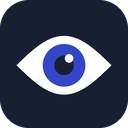
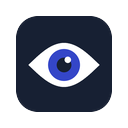
Prepare Chrome Web Store submission
- store/ holds 1280x800 screenshots, the 440x280 promo tile and
  LISTING.md with the description, single purpose, permission
  justifications, data-usage answers and reviewer instructions
- Store icon now uses 96px artwork with 16px transparent padding
- npm run package builds seeyourdata-store.zip with manifest at the root

Claude-Session: https://claude.ai/code/session_01XK9NZGWdt5g7wrh34Zqs6W

diff --git a/store/LISTING.md b/store/LISTING.md
@@ -1,0 +1,92 @@
+# Chrome Web Store listing
+
+Everything to paste into the Chrome Web Store Developer Dashboard. Images are in this folder.
+
+## Package
+
+Upload `seeyourdata-store.zip` (built with `npm run package`). It contains only the extension files, with `manifest.json` at the top level.
+
+## Store listing tab
+
+**Name:** taken from the extension (SeeYourData)
+
+**Summary** (shown in search results, max 132 characters; taken from the extension in each language):
+
+> See which personal data the website you're on can collect, and which companies receive it.
+
+**Description:**
+
+```
+SeeYourData shows you, in plain language, what the website you're on can learn about you and who it shares it with.
+
+Click the eye icon on any website to see:
+
+• A grade from A to F for how exposed you are on that page
+• Your data: what the page can collect, such as a fingerprint of your device, your location, your clicks and typing, IDs that follow you across websites, and the details its forms ask for
+• Who gets it: every company the page sends data to (Google, Meta, Hotjar, ad exchanges and more), what each one does, and which servers your browser contacted, including trackers hidden inside the site's own domain
+• Policy: SeeYourData reads the site's privacy policy for you and shows what it says it collects, why, on which legal basis, and which of your rights it explains. It then lists what the page actually does that the policy leaves out.
+• Email the site: one click drafts a polite GDPR email to the site's privacy contact with the evidence. You review it and send it from your own email. SeeYourData never sends anything.
+
+Available in English, Deutsch and Türkçe.
+
+Private by design
+• Everything happens in your browser. SeeYourData has no servers, no analytics and no accounts.
+• Findings are kept in memory only and deleted when you close the tab.
+• It never reads what you type into forms, and never blocks or changes pages.
+• The privacy policy is only downloaded when you ask, without your cookies.
+
+Free and open source (MIT): https://github.com/skraptt/seeyourdata
+Found a tracker we don't know? Use the Report button in the popup.
+```
+
+**Category:** Privacy & Security (if not offered, choose Tools)
+
+**Language:** English (German and Turkish are included in the extension)
+
+**Images:**
+- Store icon: comes from the extension (`icons/icon-128.png`)
+- Screenshots (1280×800): `screenshot-1.png` to `screenshot-4.png`, in that order
+- Small promo tile (440×280): `promo-small-440x280.png`
+
+**Homepage URL:** https://github.com/skraptt/seeyourdata
+**Support URL:** https://github.com/skraptt/seeyourdata/issues
+
+## Privacy practices tab
+
+**Single purpose:**
+
+> SeeYourData shows people which personal data the website they are visiting can collect, which companies receive it, and how that compares with the site's privacy policy.
+
+**Permission justifications:**
+
+| Permission | Justification |
+| --- | --- |
+| webRequest | Observes (never blocks or modifies) which servers the current page contacts, so the extension can show which companies receive data from that page. |
+| Host permission `<all_urls>` | Needed to observe requests on any website the user visits, to run the content script that detects fingerprinting and personal-data form fields, and to download a site's privacy policy when the user clicks "Read the privacy policy". |
+| cookies | Counts the cookies the current site keeps, shown in the Details tab. Cookie values are never read out or stored. |
+| tabs | Identifies the active tab the popup reports on, reloads it when the user asks, and briefly opens a privacy policy in a background tab when the page needs JavaScript to show it. |
+| storage | Keeps each tab's findings in session memory (cleared when the browser closes) and remembers the chosen interface language. |
+
+**Remote code:** No, I am not using remote code. (All JavaScript is included in the package.)
+
+**Data usage — what to tick:**
+- ☑ Web history (the extension notes which sites and servers a tab contacts, processed locally only)
+- ☑ Website content (the extension reads form field types and, when asked, the privacy policy text, processed locally only)
+- Leave every other category unticked.
+
+**Certify all three statements:**
+- ☑ I do not sell or transfer user data to third parties, outside of the approved use cases
+- ☑ I do not use or transfer user data for purposes that are unrelated to my item's single purpose
+- ☑ I do not use or transfer user data to determine creditworthiness or for lending purposes
+
+**Privacy policy URL:** https://github.com/skraptt/seeyourdata/blob/main/PRIVACY.md
+
+## Test instructions for reviewers (optional field)
+
+```
+1. Open any news or shopping website, for example https://www.theguardian.com.
+2. Click the SeeYourData icon. The popup shows a grade, "Your data" and "Who gets it".
+3. Open the "Policy" tab and click "Read the privacy policy".
+4. If the box "On this page, but not in the policy" appears, click the email button to see the draft page. Nothing is sent by the extension.
+No account or login is needed.
+```

diff --git a/README.md b/README.md
@@ -105,7 +105,7 @@ test/
 ```sh
 npm test                    # unit tests, Node 18+
 python test/e2e.py shots/   # end-to-end, needs: pip install playwright && playwright install chromium
-npm run package             # builds seeyourdata.zip for the Chrome Web Store
+npm run package             # builds seeyourdata-store.zip for the Chrome Web Store (see store/LISTING.md)
 ```
 
 ## Growing the tracker list
